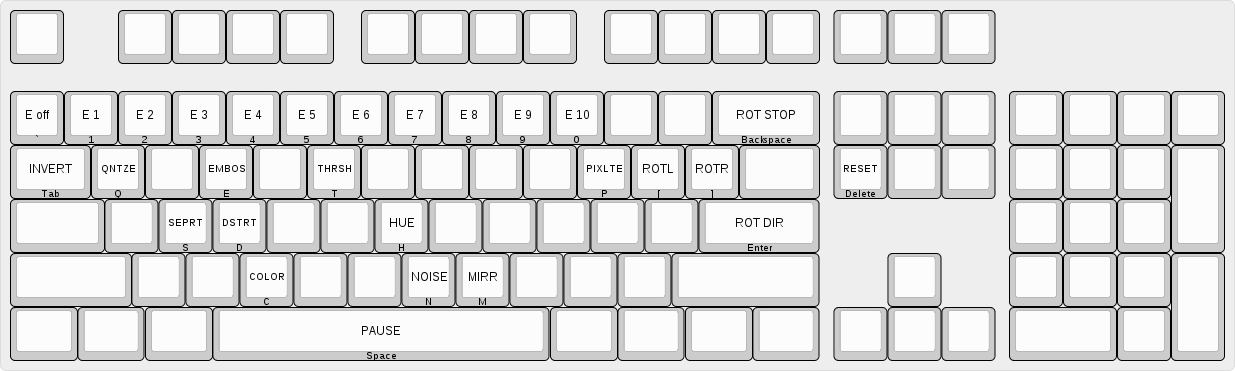
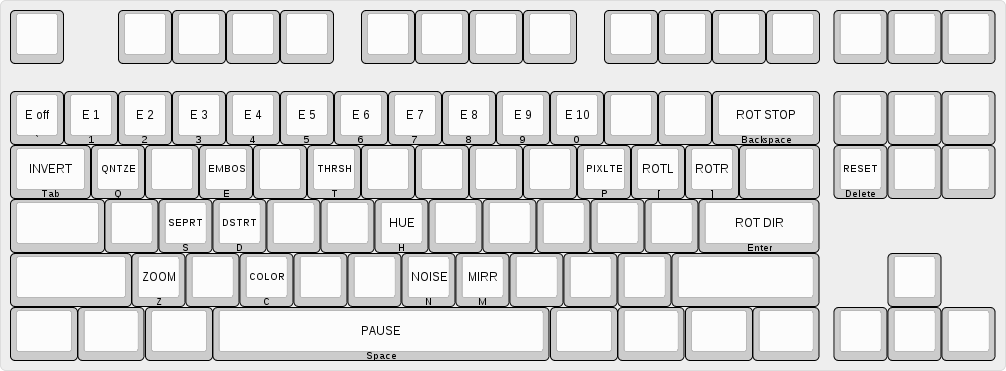
add pulsating zoom

diff --git a/colormaps.py b/colormaps.py
@@ -142,6 +142,37 @@ xpro = \
     "\376\365\377\377\365\377\377\366\377\377\366\377\377\366\377\377\367\377" \
     "\377\367\377\377\367\377\377\370"
 
+yellowblue = \
+    "\0\0\377\1\1\376\2\2\375\3\3\374\4\4\373\5\5\372\6\6\371\7\7\370\10\10\367" \
+    "\11\11\367\12\12\365\13\13\364\14\14\363\15\14\362\16\16\361\17\17\360\20" \
+    "\20\357\20\21\356\22\22\355\23\23\354\24\24\354\24\25\352\26\26\351\27\27" \
+    "\350\27\30\347\31\31\346\32\32\345\33\32\344\34\34\343\34\34\342\36\36\341" \
+    "\37\36\340\40\40\337!!\336!!\335##\334$#\334%%\332&%\331'&\330((\327()\326" \
+    "*)\325++\324,,\323--\322..\321//\320/0\31711\31722\31522\31444\31445\313" \
+    "55\31276\31188\30799\3069:\305;;\305<<\304==\302>>\301>>\300@@\300@A\276" \
+    "AB\275BC\274CD\273DE\272EE\272FF\270HH\270HI\266IJ\265KK\264KL\263MM\262" \
+    "NN\262NN\261OO\257QP\256RQ\256RR\254TT\253UU\253VU\251VW\250XX\247XY\246" \
+    "YZ\245[[\245[[\243]]\243^^\242^_\240_`\237`a\236aa\235bb\235dc\233de\233" \
+    "ff\232gf\231hg\230hi\227ji\226kj\225lk\223lm\223nm\222nn\221op\217qq\216" \
+    "rr\215ss\214st\213uu\213uu\211wv\210ww\207xx\207yz\205z{\205{{\204||\203" \
+    "}}\202\177~\201\177\200\177\200\201\177\202\202~\203\202|\204\203|\204\204" \
+    "{\205\206z\207\206x\207\207w\211\210w\211\211v\212\212u\213\214s\214\214" \
+    "r\215\215r\216\217q\217\217p\221\220o\221\222n\223\222l\224\223k\224\224" \
+    "k\225\225j\226\226i\227\227h\230\231f\231\231f\233\232e\233\233c\234\234" \
+    "c\235\235b\236\236a\237\237`\241\240_\242\241^\242\242]\243\244\\\244\244" \
+    "[\245\245Y\246\246Y\250\247X\250\250W\251\251V\252\252T\253\253T\254\255" \
+    "S\256\255R\257\256Q\257\260P\260\261O\261\261N\262\262M\263\263L\264\265" \
+    "K\265\265J\266\266I\267\270H\270\270G\271\271F\272\272E\273\273C\274\274" \
+    "B\275\275B\276\276A\277\277@\300\300?\301\301>\302\302=\303\303<\304\304" \
+    ";\305\305:\306\3069\307\3078\310\3107\311\3116\312\3125\313\3134\314\314" \
+    "3\315\3152\316\3161\317\3170\320\320/\321\321.\322\322-\323\323,\323\324" \
+    "+\325\325*\326\326)\327\327(\330\330'\331\331&\332\331%\333\332$\334\334" \
+    "#\334\335\"\336\336!\337\337\40\340\340\37\341\341\36\342\342\35\343\343" \
+    "\34\344\344\33\345\345\32\345\346\31\347\347\30\350\350\27\351\351\26\352" \
+    "\352\25\353\353\24\354\354\23\354\355\22\356\356\21\357\357\20\360\360\17" \
+    "\361\361\16\362\362\15\363\362\14\364\364\13\365\365\12\365\366\11\367\367" \
+    "\11\370\370\7\371\371\6\372\371\5\373\373\4\374\374\4\375\375\3\375\376\1"
+
 # exported from GIMP gradients
 
 fire = \

diff --git a/control.py b/control.py
@@ -26,6 +26,7 @@ class Control():
         self.separation_level = None
         self.pixelate_level = None
         self.hue_level = None
+        self.zoom_freq = None
 
     def close(self):
         pass
@@ -68,7 +69,7 @@ class Control():
             return
 
         # effects
-        if key in 'mctqendsph':
+        if key in 'mctqendsphz':
             self.modeselektor = key
             return
 
@@ -100,8 +101,10 @@ class Control():
                 elif value == 4:
                     self.app.setColormap(colormaps.xpro)
                 elif value == 5:
-                    self.app.setColormap(colormaps.fire)
+                    self.app.setColormap(colormaps.yellowblue)
                 elif value == 6:
+                    self.app.setColormap(colormaps.fire)
+                elif value == 7:
                     self.app.setColormap(colormaps.sea)
 
             # threshold
@@ -135,6 +138,12 @@ class Control():
             # hue
             if self.modeselektor == 'h':
                 self.hue_level = (0.2 * value - 1.0) if value is not None else None
+
+            if self.modeselektor == 'z':
+                if value:
+                    self.zoom_freq = (80 + value * 10) / 60.0 / 4.0
+                else:
+                    self.zoom_freq = None
 
             self.modeselektor = None
             return

diff --git a/README.md b/README.md
@@ -1,6 +1,13 @@
 Videofeedback
 =============
 
+The following Python packages are needed:
+
+```
+python-opencv
+python-opengl
+```
+
 ![keyboard](keyboard-layout.png)
 
 Common
@@ -44,7 +51,7 @@ Press letter first, then set amount of effect:
 | key | desc |
 |-----|---------|
 | M | mirror (7 is max) |
-| C | colormap (6 is max) |
+| C | colormap (7 is max) |
 | T | blackwhite threshold |
 | Q | quantize |
 | E | emboss |
@@ -53,3 +60,4 @@ Press letter first, then set amount of effect:
 | S | separation |
 | P | pixelate |
 | H | hue |
+| Z | pulsating zoom |
